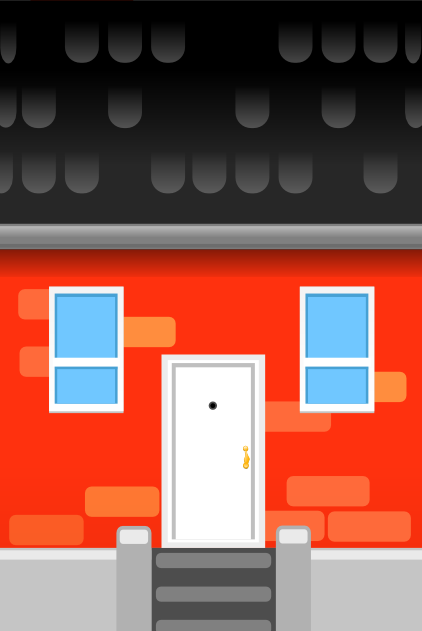
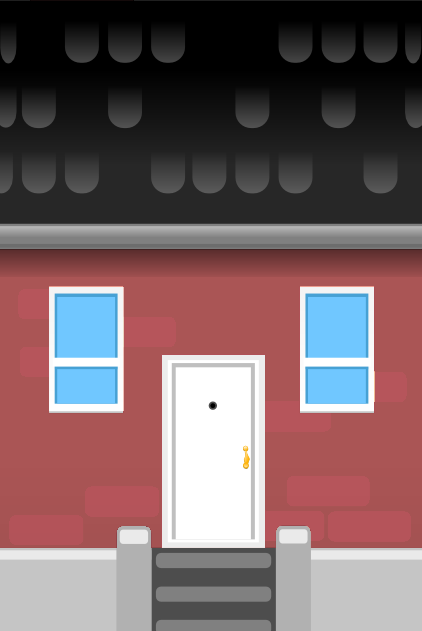
Nieuw bewerkings_programma + nieuwe huizen png's

diff --git a/IB2.py b/IB2.py
@@ -555,30 +555,41 @@ def render_sprites(renderer, sprites, player, d, delta, update):
     sprites.images = laatste_items + rest_van_de_lijst"""
 
 def collision_auto(zichtbare_sprites):
-    global  sprites_bomen, sprites_autos
+    global sprites_bomen, sprites_autos
     place_array = np.array([[sprite.x, sprite.y] for sprite in zichtbare_sprites])
-    lenght = len(place_array)
+    lenght = len(zichtbare_sprites)
+    verwijdert = []
     for i, sprite in enumerate(zichtbare_sprites):
         if sprite.soort == "Auto":
 
             wh_self_array_x = place_array[:, 0] - sprite.x
             wh_self_array_y = place_array[:, 1] - sprite.y
-            distances = np.sqrt(wh_self_array_y ** 2 + wh_self_array_x ** 2)
+            distances = np.sqrt(wh_self_array_y * 2 + wh_self_array_x * 2)
 
-            check = distances < 1.5
+            check = distances < 0.8
             if check.any():
                 pop_indexes = np.arange(0, lenght)[check]
 
                 for index in pop_indexes:
                     # print(index, sprite)
-                    soort = sprites[index].soort
-                    if soort == "Doos" or soort == "Postbus":
+                    check_sprite = zichtbare_sprites[index]
+                    soort = check_sprite.soort
+                    if check_sprite in verwijdert:
+                        check[index] = False
                         continue
-                    if soort == "Boom":
-                        sprites_bomen.remove(sprites[index])
+                    elif soort in ["Doos", "PostBus", "Auto"]:
+                        check[index] = False
+                        continue
+                    elif soort == "Boom":
+                        verwijdert.append(check_sprite)
+                        sprites_bomen.remove(zichtbare_sprites[index])
+                    elif soort == "Auto":
+                        pass
+                    else:
+                        raise TypeError(soort)
 
-        place_array = np.array([[sprite.x, sprite.y] for sprite in sprites])
-        lenght = len(place_array)
+                place_array = place_array[~check, :]
+                lenght = len(place_array)
 
 
 def collision_detection(renderer, speler, sprites, hartje):
@@ -890,11 +901,11 @@ def main(inf_world, shared_world_map, shared_pad, shared_eindbestemming, shared_
 
     soort_muren = [
         factory.from_image(resources.get_path("muur_test.png")),  # 1
-        factory.from_image(resources.get_path("Red_house.png")),  # 2
-        factory.from_image(resources.get_path("Pink_house.png")),  # 3
-        factory.from_image(resources.get_path("yellow_house.png")),  # 4
-        factory.from_image(resources.get_path("Gruis_house.png")),  # 5
-        factory.from_image(resources.get_path("hedge.png")),  # 6
+        factory.from_image(resources.get_path("Rood_huis.png")),  # 2
+        factory.from_image(resources.get_path("groen_huis.png")),  # 3
+        factory.from_image(resources.get_path("Blauw_huis.png")),  # 4
+        factory.from_image(resources.get_path("Grijs_huis.png")),  # 5
+        factory.from_image(resources.get_path("Hedge_donker.png")),  # 6
         factory.from_image(resources.get_path("stop bord pixel art.png"))  # 7
     ]
     muren_info = []

diff --git a/resources/Huizen_verkleuren.py b/resources/Huizen_verkleuren.py
@@ -1,0 +1,31 @@
+from PIL import Image
+import os
+
+def aanpassen_afbeelding(input_image_path, output_image_path):
+    afbeelding = Image.open(input_image_path)
+    pixels = afbeelding.convert("RGB")
+    pixel_array = pixels.load()
+
+    breedte, hoogte = afbeelding.size
+    for x in range(breedte):
+        for y in range(hoogte):
+            rood, groen, blauw = pixels.getpixel((x, y))
+            if rood > groen and rood > blauw:
+                if groen > 150 and blauw > 5:
+                    continue
+                elif groen > 80:
+                    #lichte vlakken, minder hard delen
+                    afbeelding.putpixel((x, y), (int(rood/1.3),int(rood/1.3), int(rood/1.3)))
+                else:
+                    #kleur huis
+                    afbeelding.putpixel((x, y), (int(rood / 1.4), int(rood / 1.4), int(rood / 1.4)))
+
+    afbeelding.save(output_image_path)
+
+if __name__ == "__main__":
+    input_afbeelding = "Huis.png"
+
+    #aanpassen
+    output_afbeelding = "Grijs_huis.png"
+
+    aanpassen_afbeelding(input_afbeelding, output_afbeelding)
